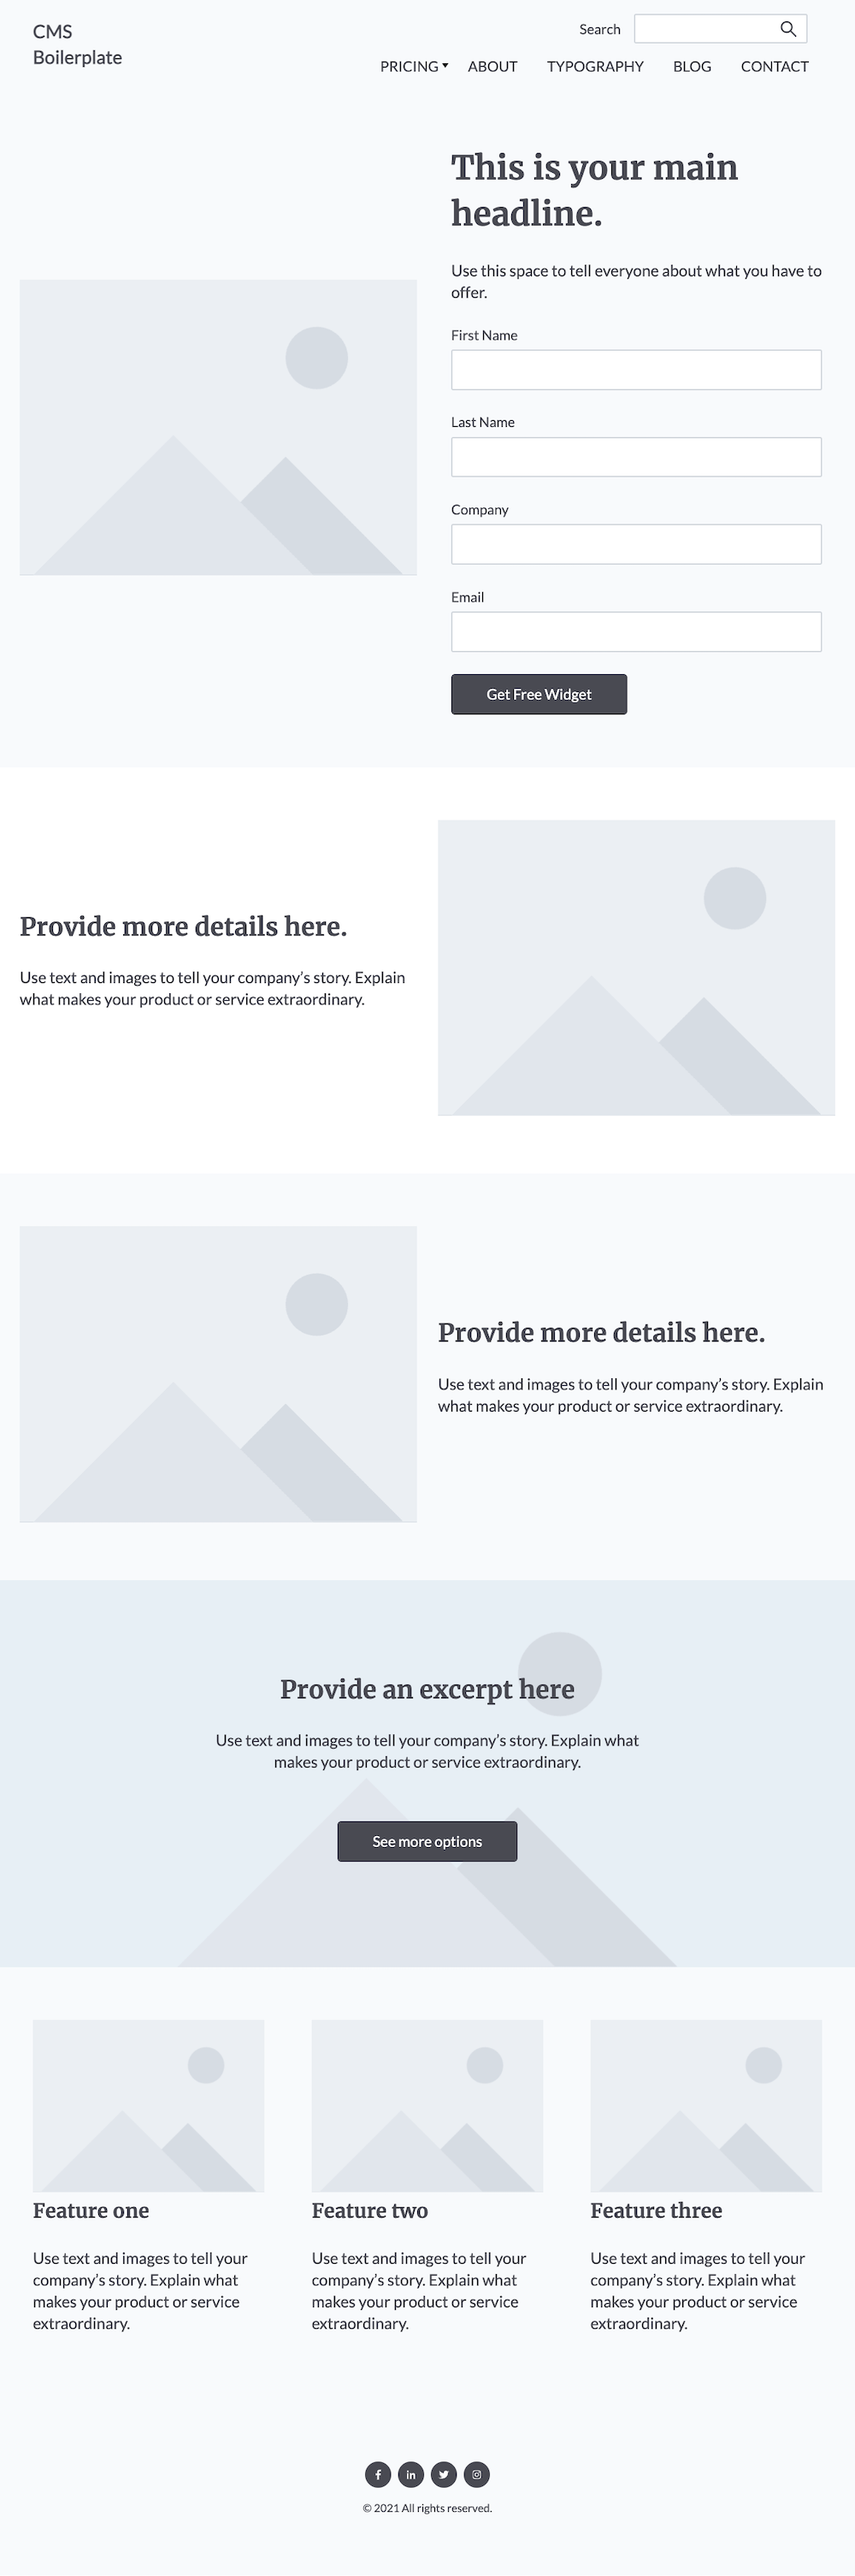
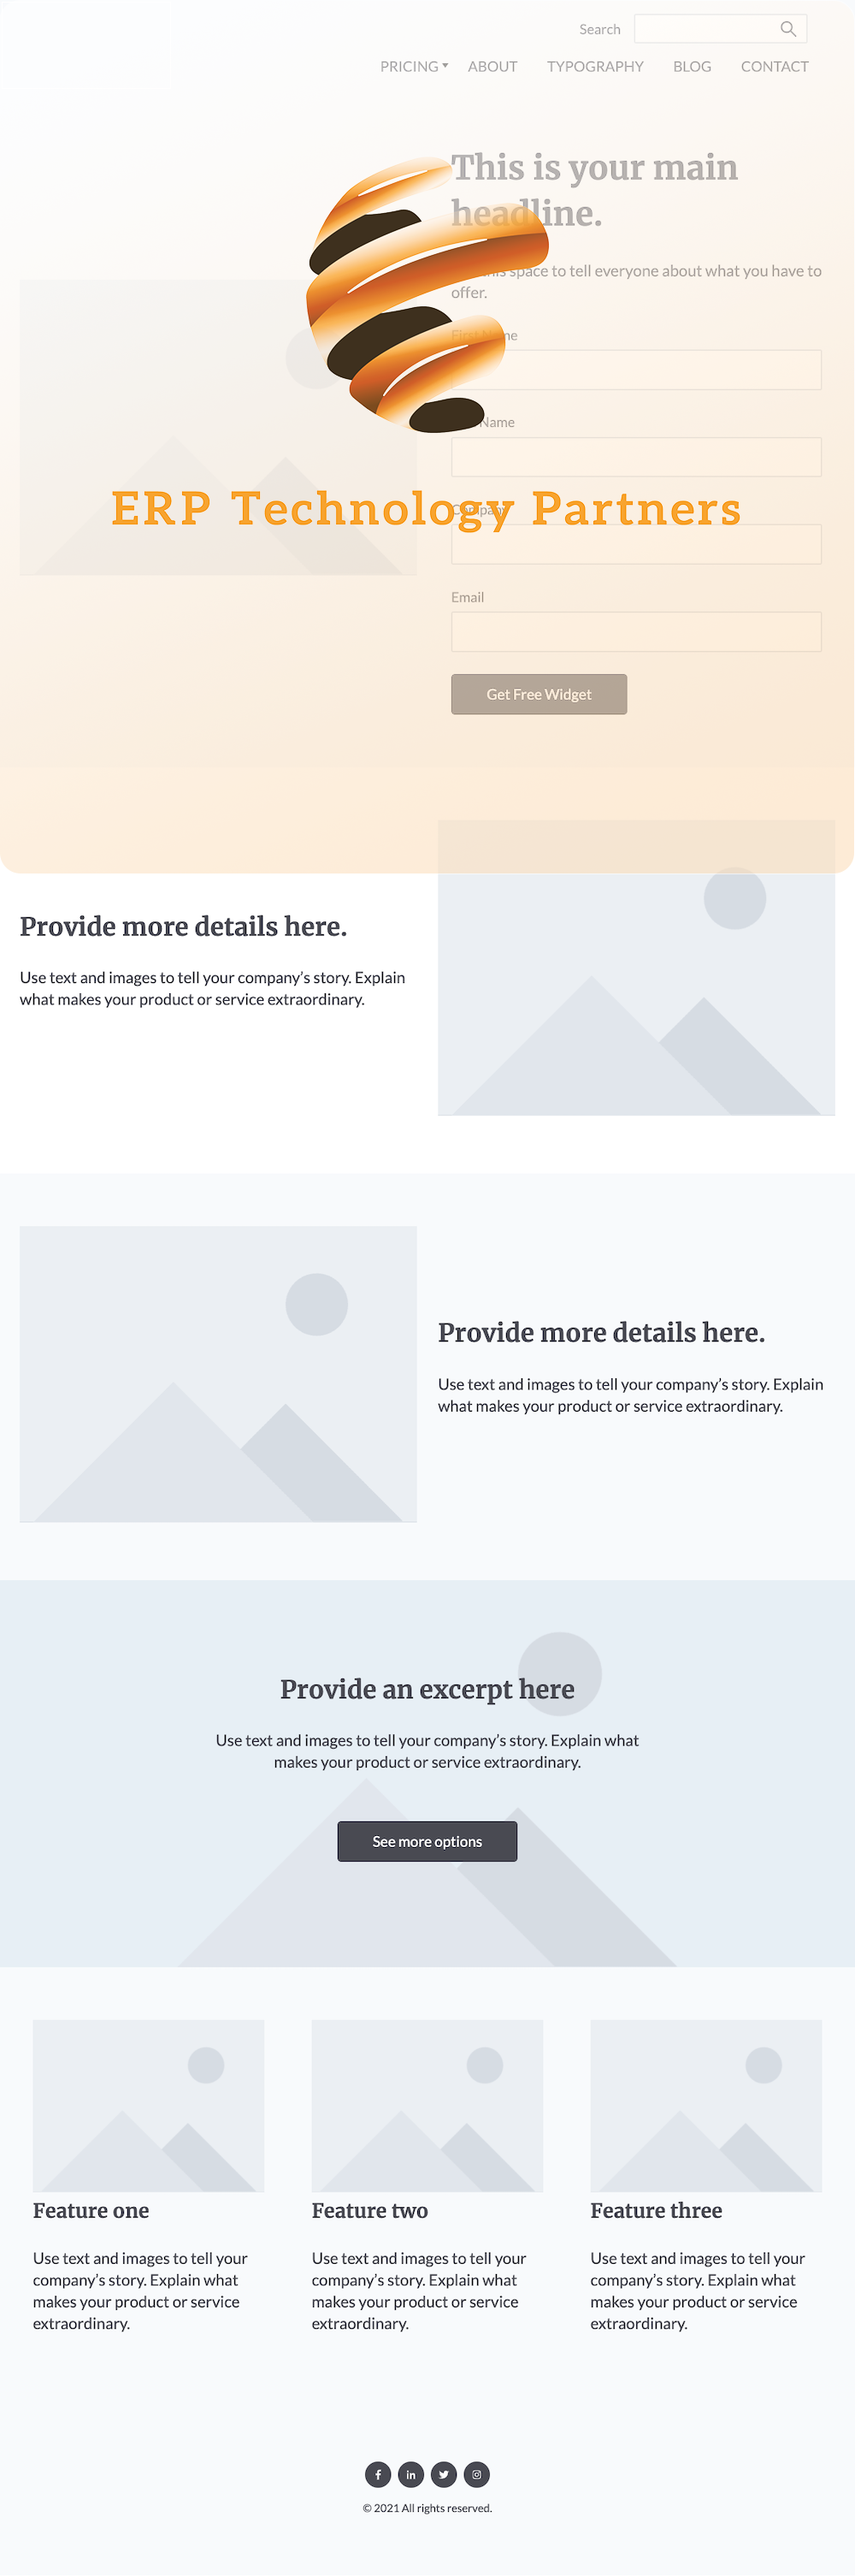
header graft from phase

diff --git a/erp-technologies-theme/templates/partials/header.html b/erp-technologies-theme/templates/partials/header.html
@@ -2,91 +2,46 @@
   templateType: global_partial
   label: Website header
 -->
-<header class="header">
+<header class="header jk_header">
 
-  {# The link below is used for a navigation skipper which allows users navigating the site with their keyboard to skip over the site navigation. More information on the navigation skipper can be found here: https://github.com/HubSpot/cms-theme-boilerplate/wiki/Accessibility #}
 
-  <a href="#main-content" class="header__skip">Skip to content</a>
+ 
+	{# The link below is used for a navigation skipper which allows users
+  navigating the site with their keyboard to skip over the site navigation. More
+  information on the navigation skipper can be found here:
+  https://github.com/HubSpot/cms-theme-boilerplate/wiki/Accessibility #}
 
-  {# Top header drag and drop area #}
+	<a href="#main-content" class="header__skip">Skip to content</a>
 
-  {% dnd_area "header-top"
-    label="Top header",
-    class="content-wrapper"
-  %}
-  {% end_dnd_area %}
+	{# Main header #}
 
-  {# Main header #}
+	<div class="tw-mx-auto tw-px-5 tw-pt-8 tw-w-full lg:tw-w-11/12">
 
-  <div class="header__container content-wrapper">
-
-    {# Header logo column #}
-
-    <div class="header__logo header__logo--main">
-      {% module "site_logo"
-        path="@hubspot/logo"
-        img={
-          "loading": "eager"
-        }
-      %}
-    </div>
-
-    {# Header navigation column #}
-
-    <div class="header__column">
-
-      {# Header navigation row one #}
-
-      <div class="header__row-1">
-        {% if content.translated_content.values()|selectattr("published")|length or is_listing_view and group.translations %}
-          <div class="header__language-switcher header--element">
-            <div class="header__language-switcher--label">
-              {% module "language-switcher"
-                path="@hubspot/language_switcher",
-                label="Language switcher",
-                display_mode="localized"
-              %}
-              <div class="header__language-switcher--label-current"> {{ locale_name(locale) }}</div>
-            </div>
-          </div>
-        {% endif %}
-        <div class="header__search header--element">
-          {% module "site_search"
-            path="@hubspot/search_input",
-            label="Search",
-            field_label="Search",
-            placeholder=""
-          %}
-        </div>
+    <div class="jk_header__content-contain tw-flex tw-justify-between tw-mb-4">
+      <div class="jk_header__brand tw-w-2/3 md:tw-w-1/2 2xl:tw-w-64">
+        <div class="jk_header__gx-logo tw-h-20 tw-flex tw-items-end">
+					{% module "site_logo" path="@hubspot/logo" %}
+				</div>
       </div>
-
-      {# Header navigation row two #}
-
-      <div class="header__row-2">
-        <div class="header--toggle header__navigation--toggle"></div>
-        {% if content.translated_content|length or is_listing_view and group.translations %}
-          <div class="header--toggle header__language-switcher--toggle"></div>
-        {% endif %}
-        <div class="header--toggle header__search--toggle"></div>
-        <div class="header__close--toggle"></div>
-        <div class="header__navigation header--element">
-          {% module "navigation-primary"
-            path="../../modules/menu",
-            label="Primary navigation"
-          %}
-        </div>
+      <div class="jk_header__nav tw-grow tw-flex tw-items-center md:tw-items-end tw-justify-center">
+        <div class="header--toggle jk_header__navigation--toggle"></div>
+				{% if content.translated_content|length or is_listing_view and
+    group.translations %}
+				<div class="header--toggle jk_header__language-switcher--toggle"></div>
+				{% endif %}
+				<div class="header__close--toggle"></div>
+				<div class="header__navigation header--element">
+					{% module "navigation-primary" path="../../modules/menu",
+      label="Primary navigation" %}
+				</div>
       </div>
-
+      <div class="header__contact tw-flex tw-flex-col tw-items-center md:tw-items-end tw-w-full md:tw-w-1/2 2xl:tw-w-64">
+        <div class="tw-mb-3"><a href="tel:855-239-5438" class="jk_header--contact__phone"><span itemprop="telephone" content="+18552395438" class="tw-flex tw-items-center"><img src="https://22759948.fs1.hubspotusercontent-na1.net/hubfs/22759948/img/icon-phone-traditional-yellow.svg" alt="telephone icon" class="tw-h-4 tw-mr-2" ><div class=" ff_proxima-nova-cond jk_color--text__primary-dark">855.239.5438</div></span></a></div>
+			<div class="jk_cta__wrapper">
+        {% module "cta" path="@hubspot/cta" %}
+      </div>
+      </div>
     </div>
-
-  </div>
-
-  {# Bottom header drag and drop area #}
-
-  {% dnd_area "header-bottom"
-    label="Bottom header",
-    class="content-wrapper"
-  %}
-  {% end_dnd_area %}
+		</div>
 
 </header>

diff --git a/erp-technologies-theme/css/tailwind.css b/erp-technologies-theme/css/tailwind.css
@@ -2907,6 +2907,10 @@ video {
   flex: 1 1 0%;
 }
 
+.tw-grow {
+  flex-grow: 1;
+}
+
 .tw-basis-1\/12 {
   flex-basis: 8.333333%;
 }
@@ -4176,6 +4180,10 @@ video {
   padding-top: 1.5rem;
 }
 
+.tw-pt-8 {
+  padding-top: 2rem;
+}
+
 .tw-text-center {
   text-align: center;
 }
@@ -4542,6 +4550,10 @@ video {
     width: auto;
   }
 
+  .md\:tw-w-1\/2 {
+    width: 50%;
+  }
+
   .md\:tw-max-w-3xl {
     max-width: 48rem;
   }
@@ -4562,6 +4574,10 @@ video {
 
   .md\:tw-grid-cols-6 {
     grid-template-columns: repeat(6, minmax(0, 1fr));
+  }
+
+  .md\:tw-items-end {
+    align-items: flex-end;
   }
 
   .md\:tw-items-center {
@@ -4636,6 +4652,10 @@ video {
     margin-right: auto;
   }
 
+  .lg\:tw-w-11\/12 {
+    width: 91.666667%;
+  }
+
   .lg\:-tw-translate-x-3\/4 {
     --tw-translate-x: -75%;
     transform: translate(var(--tw-translate-x), var(--tw-translate-y)) rotate(var(--tw-rotate)) skewX(var(--tw-skew-x)) skewY(var(--tw-skew-y)) scaleX(var(--tw-scale-x)) scaleY(var(--tw-scale-y));
@@ -4687,5 +4707,11 @@ video {
 
   .xl\:tw-p-14 {
     padding: 3.5rem;
+  }
+}
+
+@media (min-width: 1536px) {
+  .\32xl\:tw-w-64 {
+    width: 16rem;
   }
 }

diff --git a/erp-technologies-theme/templates/system/subscriptions-confirmation.html b/erp-technologies-theme/templates/system/subscriptions-confirmation.html
@@ -1,7 +1,7 @@
 <!--
   templateType: email_subscriptions_confirmation_page
   isAvailableForNewContent: true
-  label: Boilerplate - email subscriptions confirmation
+  label: ERP Technologies - email subscriptions confirmation
   screenshotPath: ../../images/template-previews/subscriptions-confirmation.png
 -->
 {% set template_css = "../../css/templates/system.css" %}

diff --git a/erp-technologies-theme/templates/system/subscription-preferences.html b/erp-technologies-theme/templates/system/subscription-preferences.html
@@ -1,7 +1,7 @@
 <!--
   templateType: email_subscription_preferences_page
   isAvailableForNewContent: true
-  label: Boilerplate - email subscription preferences
+  label: ERP Technologies - email subscription preferences
   screenshotPath: ../../images/template-previews/subscription-preferences.png
 -->
 {% set template_css = "../../css/templates/system.css" %}

diff --git a/erp-technologies-theme/templates/system/membership-reset-password-request.html b/erp-technologies-theme/templates/system/membership-reset-password-request.html
@@ -1,7 +1,7 @@
 <!--
   templateType: membership_reset_request_page
   isAvailableForNewContent: true
-  label: Boilerplate - reset password request
+  label: ERP Technologies - reset password request
   screenshotPath: ../../images/template-previews/membership-reset-password-request.png
 -->
 {% set template_css = "../../css/templates/system.css" %}

diff --git a/erp-technologies-theme/templates/system/backup-unsubscribe.html b/erp-technologies-theme/templates/system/backup-unsubscribe.html
@@ -1,7 +1,7 @@
 <!--
   templateType: email_backup_unsubscribe_page
   isAvailableForNewContent: true
-  label: Boilerplate - email backup unsubscribe
+  label: ERP Technologies - email backup unsubscribe
   screenshotPath: ../../images/template-previews/backup-unsubscribe.png
 -->
 {% set template_css = "../../css/templates/system.css" %}

diff --git a/erp-technologies-theme/templates/system/membership-register.html b/erp-technologies-theme/templates/system/membership-register.html
@@ -1,7 +1,7 @@
 <!--
   templateType: membership_register_page
   isAvailableForNewContent: true
-  label: Boilerplate - membership registration
+  label: ERP Technologies - membership registration
   screenshotPath: ../../images/template-previews/membership-register.png
 -->
 {% set template_css = "../../css/templates/system.css" %}

diff --git a/erp-technologies-theme/templates/system/membership-reset-password.html b/erp-technologies-theme/templates/system/membership-reset-password.html
@@ -1,7 +1,7 @@
 <!--
   templateType: membership_reset_page
   isAvailableForNewContent: true
-  label: Boilerplate - reset password
+  label: ERP Technologies - reset password
   screenshotPath: ../../images/template-previews/membership-reset-password.png
 -->
 {% set template_css = "../../css/templates/system.css" %}

diff --git a/erp-technologies-theme/templates/system/membership-login.html b/erp-technologies-theme/templates/system/membership-login.html
@@ -1,7 +1,7 @@
 <!--
   templateType: membership_login_page
   isAvailableForNewContent: true
-  label: Boilerplate - membership login
+  label: ERP Technologies - membership login
   screenshotPath: ../../images/template-previews/membership-login.png
 -->
 {% set template_css = "../../css/templates/system.css" %}

diff --git a/erp-technologies-theme/templates/system/password-prompt.html b/erp-technologies-theme/templates/system/password-prompt.html
@@ -1,7 +1,7 @@
 <!--
   templateType: password_prompt_page
   isAvailableForNewContent: true
-  label: Boilerplate - password prompt
+  label: ERP Technologies - password prompt
   screenshotPath: ../../images/template-previews/password-prompt.png
 -->
 {% set template_css = "../../css/templates/system.css" %}

diff --git a/erp-technologies-theme/templates/system/search-results.html b/erp-technologies-theme/templates/system/search-results.html
@@ -1,7 +1,7 @@
 <!--
   templateType: search_results_page
   isAvailableForNewContent: true
-  label: Boilerplate - search results
+  label: ERP Technologies - search results
   screenshotPath: ../../images/template-previews/search-results.png
 -->
 {% set template_css = "../../css/templates/system.css" %}

diff --git a/erp-technologies-theme/templates/blog-index.html b/erp-technologies-theme/templates/blog-index.html
@@ -1,7 +1,7 @@
 <!--
   templateType: blog_listing
   isAvailableForNewContent: true
-  label: Boilerplate - blog listing
+  label: ERP Technologies - blog listing
   screenshotPath: ../images/template-previews/blog-index.png
 -->
 {% set template_css = "../../css/templates/blog.css" %}
